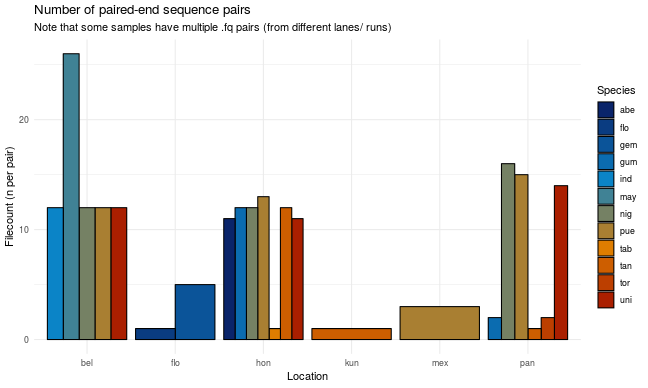
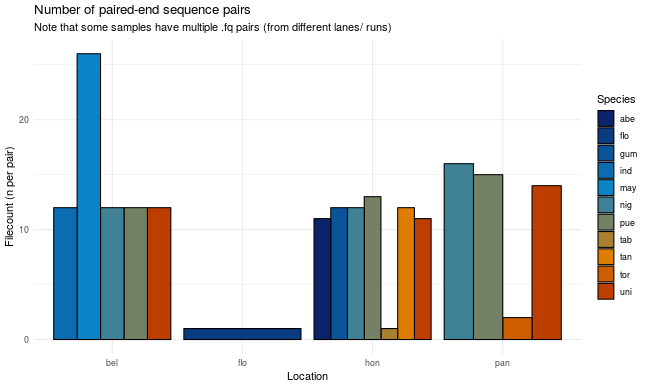
samples selected

diff --git a/metadata/README.md b/metadata/README.md
@@ -19,28 +19,24 @@ Below is a short summary of the sample compostition:
 Summary on *per-file* (pair) basis:
 
 
-|  Location| abe| flo| gem| gum| ind| may| nig| pue| tab| tan| tor| uni| Total|
-|---------:|---:|---:|---:|---:|---:|---:|---:|---:|---:|---:|---:|---:|-----:|
-|    Belize|    |    |    |    |  12|  26|  12|  12|    |    |    |  12|    74|
-|   Florida|    |   1|   5|    |    |    |    |    |    |    |    |    |     6|
-|  Honduras|  11|    |    |  12|    |    |  12|  13|   1|  12|    |  11|    72|
-| Kuna Yala|    |    |    |    |    |    |    |    |    |   1|    |    |     1|
-|    Mexico|    |    |    |    |    |    |    |   3|    |    |    |    |     3|
-|    Panama|    |    |    |   2|    |    |  16|  15|    |   1|   2|  14|    50|
-|     Total|  11|   1|   5|  14|  12|  26|  40|  43|   1|  14|   2|  37|   206|
+| Location| abe| flo| gum| ind| may| nig| pue| tab| tan| tor| uni| Total| Species|
+|--------:|---:|---:|---:|---:|---:|---:|---:|---:|---:|---:|---:|-----:|-------:|
+|   Belize|    |    |    |  12|  26|  12|  12|    |    |    |  12|    74|       5|
+|  Florida|    |   1|    |    |    |    |    |    |    |    |    |     1|       1|
+| Honduras|  11|    |  12|    |    |  12|  13|   1|  12|    |  11|    72|       7|
+|   Panama|    |    |    |    |    |  16|  15|    |    |   2|  14|    47|       4|
+|    Total|  11|   1|  12|  12|  26|  40|  40|   1|  12|   2|  37|   194|      11|
 
 Summary on *per-sample-id* basis:
 
 
-|  Location| abe| flo| gem| gum| ind| may| nig| pue| tab| tan| tor| uni| Total|
-|---------:|---:|---:|---:|---:|---:|---:|---:|---:|---:|---:|---:|---:|-----:|
-|    Belize|    |    |    |    |  12|  10|  12|  12|    |    |    |  12|    58|
-|   Florida|    |   1|   5|    |    |    |    |    |    |    |    |    |     6|
-|  Honduras|  11|    |    |  12|    |    |  12|  13|   1|  12|    |  11|    72|
-| Kuna Yala|    |    |    |    |    |    |    |    |    |   1|    |    |     1|
-|    Mexico|    |    |    |    |    |    |    |   3|    |    |    |    |     3|
-|    Panama|    |    |    |   1|    |    |  13|  13|    |   1|   2|  13|    43|
-|     Total|  11|   1|   5|  13|  12|  10|  37|  41|   1|  14|   2|  36|   183|
+| Location| abe| flo| gum| ind| may| nig| pue| tab| tan| tor| uni| Total| Species|
+|--------:|---:|---:|---:|---:|---:|---:|---:|---:|---:|---:|---:|-----:|-------:|
+|   Belize|    |    |    |  12|  10|  12|  12|    |    |    |  12|    58|       5|
+|  Florida|    |   1|    |    |    |    |    |    |    |    |    |     1|       1|
+| Honduras|  11|    |  12|    |    |  12|  13|   1|  12|    |  11|    72|       7|
+|   Panama|    |    |    |    |    |  13|  13|    |    |   2|  13|    41|       4|
+|    Total|  11|   1|  12|  12|  10|  37|  38|   1|  12|   2|  36|   172|      11|
 
 ---
 
